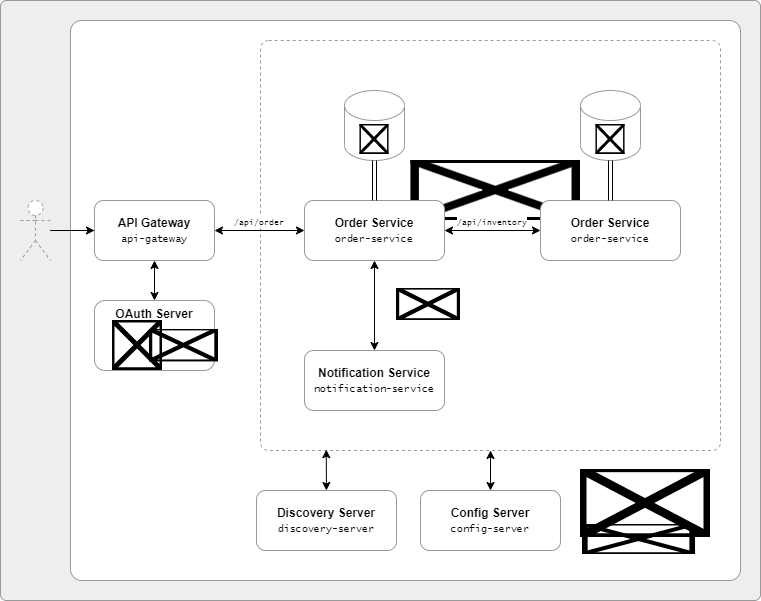
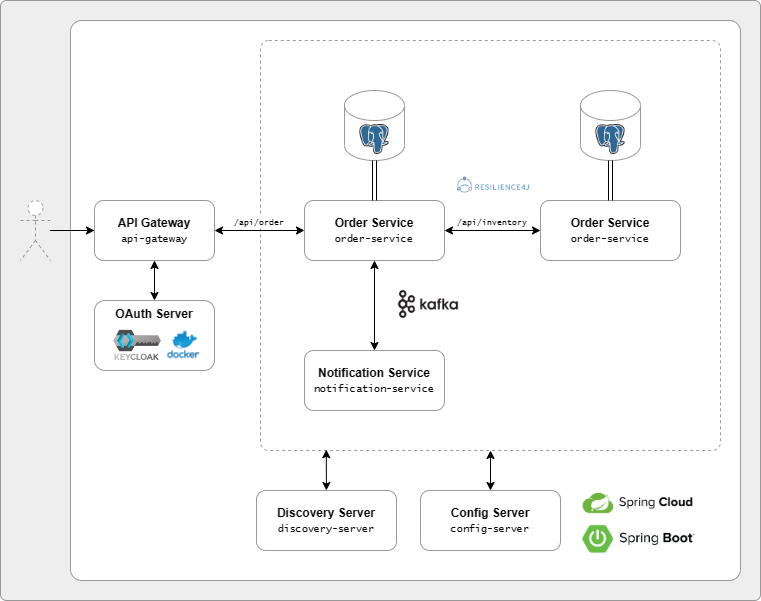
Fix diagram

diff --git a/README.md b/README.md
@@ -10,7 +10,7 @@ In the meantime, please feel free to explore the code or view my other projects,
 3. [Muffin @ Concept-Muffin](https://github.com/kimgoetzke/Concept-Muffin) (The concept for a desktop game written in C#)
 
 ## Overview
-![diagram.png](diagram.png)
+![Overview diagram](diagram.png)
 
 ## Instructions to run
 1. Clone repo
